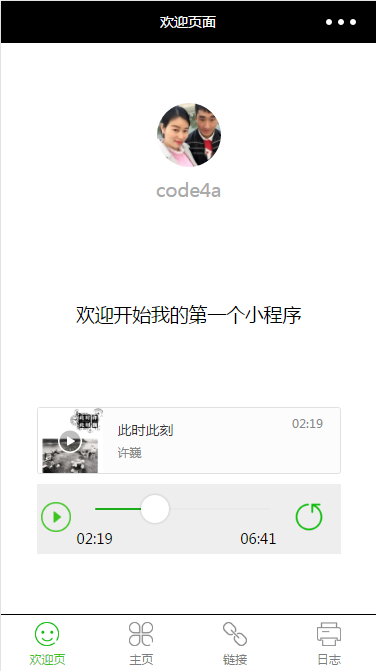
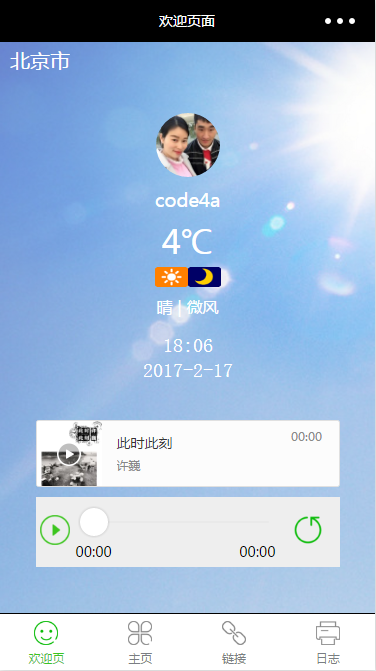
add index page weather

diff --git a/pages/index/index.js b/pages/index/index.js
@@ -8,6 +8,16 @@ Page({
     this.audioCtx = wx.createAudioContext('myAudio')
   },
   data: {
+
+    AK: 'hWtYHdhw2fIwi9PWsWX09IVmGtLVp2UG',
+    city: '',
+    temp: '',
+    todayDayImg: '',
+    todayNightImg: '',
+    weather: '',
+    todayDate: '',
+    todayTime: '',
+
     playTime: 0,
     playing: false,
     curPos: '00:00',
@@ -63,8 +73,16 @@ Page({
       duration: util.formatAudioTime(u.detail.duration)
     });
   },
+  // 监听用户下拉动作
+  onPullDownRefresh: function () {
+      this.getTime();
+  },
   onLoad: function () {
     console.log('onLoad')
+
+    this.loadInfo();
+    this.getTime();
+
     var that = this
     //调用应用实例的方法获取全局数据
     app.getUserInfo(function(userInfo){
@@ -79,5 +97,79 @@ Page({
       title: '欢迎页面分享',
       path: '/pages/index/index'
     }
-  }
+  },
+  loadInfo: function () {
+        var that = this;
+        wx.getLocation({
+            type: 'gcj02',
+            success: function(res) {
+                var latitude = res.latitude;
+                var longitude = res.longitude;
+                var AK = that.data.AK;
+               that.loadCity(latitude, longitude, AK, that.loadWeather);
+               console.log(that.data.city);
+            //    that.loadWeather(that.data.city, AK);
+            }
+        })
+    },
+    loadCity: function (latitude, longitude, AK, callback) {
+        var that = this;
+        var url = 'https://api.map.baidu.com/geocoder/v2/?location=' + latitude + ',' + longitude + '&output=json&ak=' + AK;
+        wx.request({
+            url: url,
+            header: {
+                'content-type': 'application/json'
+            },
+            success: function(res) {
+                console.log(res);
+                var city = res.data.result.addressComponent.city;
+                that.setData({city :city});
+                console.log(that.data.city);
+                callback && callback(city, AK);
+            }
+        })
+    },
+    loadWeather: function (city, AK) {
+        var that  = this;
+        var url = 'https://api.map.baidu.com/telematics/v3/weather?location=' + city + '&output=json&ak=' + AK;
+        console.log(url);
+        wx.request({
+            url: url,
+            header: {
+                'content-type': 'application/json'
+            },
+            success: function(res) {
+                var desNum = that.random(5);
+                console.log(res);
+                var future = res.data.results[0].weather_data.filter(function(ele, index) {
+                    return index > 0;
+                });
+                var temReg = /\d+℃/;
+                that.setData({
+                    temp: res.data.results[0].weather_data[0].date.match(temReg)[0],
+                    todayDayImg: res.data.results[0].weather_data[0].dayPictureUrl,
+                    todayNightImg: res.data.results[0].weather_data[0].nightPictureUrl,
+                    weather: res.data.results[0].weather_data[0].weather + ' | ' + res.data.results[0].weather_data[0].wind,
+                });
+            console.log(that.data.future);
+
+            }
+        })
+    },
+    random: function(max, min) {
+        var min = min || 0;
+        return Math.floor(Math.random() * (max - min +1) + min);
+    },
+    getTime: function () {
+        var date = new Date();
+        var minute = date.getMinutes() >=10 ? date.getMinutes() : ('0' + date.getMinutes());
+        var hour = date.getHours() >=10 ? date.getHours() : ('0' + date.getHours());
+        var now = date.getDate() >= 10 ? date.getDate() : ('0' + date.getDate());
+        var todayDate = date.getFullYear() + '-' + (date.getMonth() + 1) + '-' + now;
+        var todayTime = hour + ':' + minute;
+        this.setData({
+            todayDate: todayDate,
+            todayTime: todayTime
+        })
+    }
 })
